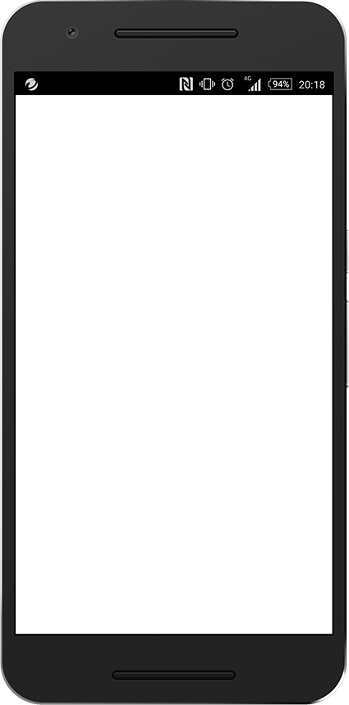
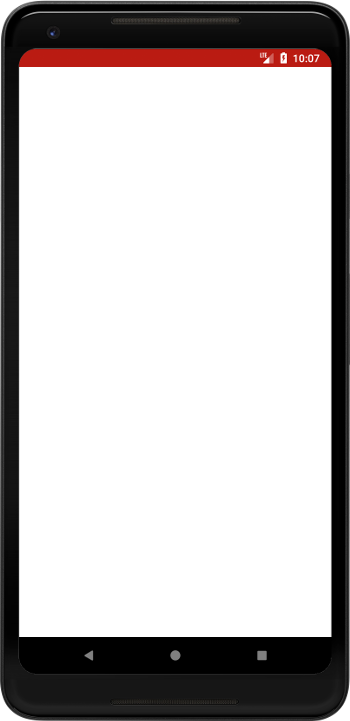
Improve device preview on home page

Changed region(s): [[0.0, 0.0, 1.0, 1.0]]

diff --git a/src/less/_keyvisual.less b/src/less/_keyvisual.less
@@ -64,18 +64,19 @@
       box-shadow: 0 0 1px 1px;
 
       &-ios {
-        width: 308px;
-        height: 666px;
-        margin-top: 38px;
-        margin-left: 32px;
+        width: 312px;
+        height: 698px;
+        margin-top: 26px;
+        margin-left: 30px;
+        border-radius: 30px;
         background: #fff;
       }
 
       &-android {
         width: 317px;
-        height: 539px;
-        margin-top: 115px;
-        margin-left: 28px;
+        height: 570px;
+        margin-top: 79px;
+        margin-left: 27px;
         background: #fff;
       }
     }
